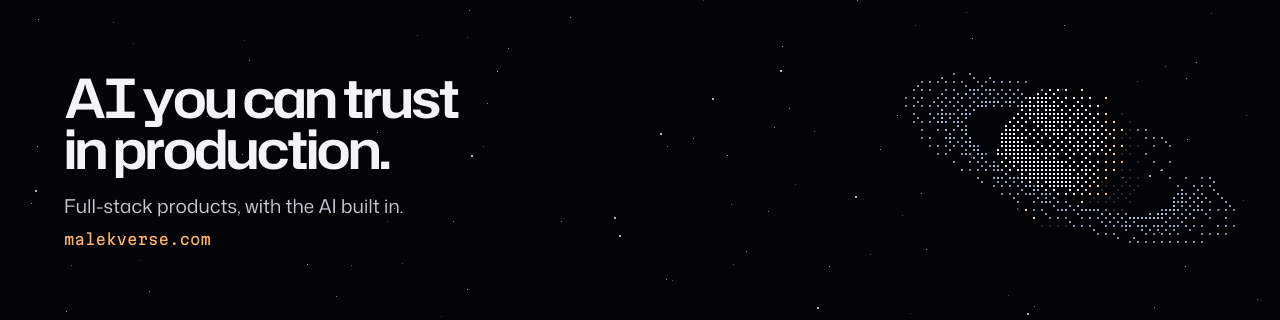
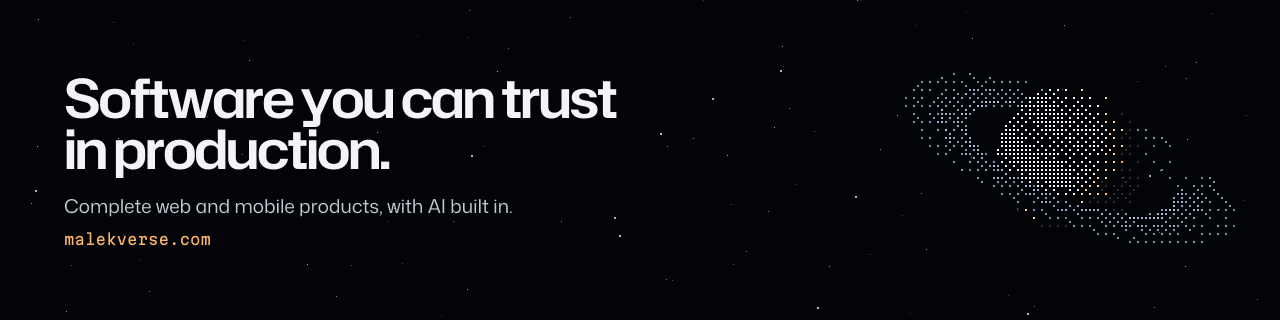
Profile: software engineer first, with AI built in
Lead with the products (TunisiaFlicks, Al-Murshid, QTrust, Bridge),
rename the column to Highlights, and reorder the stack so AI comes last.
New banner: Software you can trust in production.

Changed region(s): [[0.0312, 0.2188, 0.5, 0.4062], [0.0312, 0.625, 0.4062, 0.6875]]

diff --git a/README.md b/README.md
@@ -1,8 +1,8 @@
-<a href="https://www.malekverse.com"><img src="assets/banner.png" alt="AI you can trust in production. Full-stack products, with the AI built in. malekverse.com" width="100%"></a>
+<a href="https://www.malekverse.com"><img src="assets/banner.png" alt="Software you can trust in production. Complete web and mobile products, with AI built in. malekverse.com" width="100%"></a>
 
 ### Hi, I'm Malek
 
-Full-stack AI engineer. I build complete products, with interfaces people enjoy using and **AI you can trust in production** inside them.
+Software engineer. I build complete products end to end: web and mobile apps, the backends behind them, and AI inside them where it earns its place.
 
 `STATUS: SHIPPING` · Full Stack AI Engineer at **Korbyx** · [malekverse.com](https://malekverse.com)
 
@@ -10,18 +10,19 @@ Full-stack AI engineer. I build complete products, with interfaces people enjoy 
 
 #### Selected work
 
-| Project | What it is | How it earns trust |
+| Project | What it is | Highlights |
 |---|---|---|
-| [**QTrust**](https://q-trust-saas.vercel.app) | Multi-tenant SaaS for Quranic schools + tablet app for QR attendance | Admin agent with 43 tools: Zod-validated arguments, every write held for human approval |
-| [**Bridge**](https://bridgeforall.vercel.app) | Accessibility platform for neurodivergent & disabled users (EN/FR/AR) | Validated LLM output with multi-provider fallback · 19 automated row-level-security checks |
-| [**Edah Studio**](https://edah-studio.onrender.com/) | Written lecture → narrated Arabic/English video with a 3D presenter | 5-layer faithfulness pipeline so the model can't invent facts |
-| [**Win El Dhaw**](https://wineldhaw.vercel.app) | Live crowdsourced power-outage map for Tunisia | Reports from web, Telegram and news merged with DBSCAN clustering on PostGIS |
-| [**quran-dataset**](https://github.com/malekverse/quran-dataset) | Structured open dataset of the Qur'an (JSON/CSV) | Open data for Arabic and Islamic tech |
+| [**TunisiaFlicks**](https://github.com/malekverse/tunisiaflicks) | Film & series discovery on the web, Android, Android TV and Windows | 380+ commits, solo · EN/FR/AR/Derja with right-to-left · tests and Android builds in CI on every push |
+| [**Al-Murshid**](https://al-murshid-pro.netlify.app) | A calm daily companion for Muslims, on the web, iOS and Android | One TypeScript core for Next.js + Expo · widgets, alarms, Quran reader · iOS Simulator flows and Lighthouse budgets in CI |
+| [**QTrust**](https://q-trust-saas.vercel.app) | Multi-tenant SaaS for Quranic schools + a tablet app for QR attendance | 28 tenant-scoped models · billing and three portals · AI admin agent whose writes wait for approval |
+| [**Bridge**](https://bridgeforall.vercel.app) | Accessibility platform + Chrome extension (EN/FR/AR) | Hackathon to live product in 3 days · on-device audio ML (~150 ms) · 19 automated RLS checks |
+| [**Win El Dhaw**](https://wineldhaw.vercel.app) | Live power-outage map for Tunisia | Web reports, a Telegram bot and a news scraper → PostGIS DBSCAN zones, in real time |
+| [**Edah Studio**](https://edah-studio.onrender.com/) | Written lecture → narrated Arabic/English video | 3D presenter · frame-accurate MP4 export · a 5-layer gate against invented facts |
 
-Open source: merged fix in [God's Eye View](https://github.com/bilawalsidhu/gods-eye-view) (48k+ ★).
+Open source: merged fix in [God's Eye View](https://github.com/bilawalsidhu/gods-eye-view) (48k+ ★) · maintainer of [quran-dataset](https://github.com/malekverse/quran-dataset)
 
 #### Stack
-`TypeScript` `Next.js` `React` `Node.js` `Hono` `Python` `FastAPI` `PostgreSQL` `MongoDB` `Supabase` `AWS` `Bedrock` `Terraform` `Vercel AI SDK` `LangChain` `ONNX Runtime`
+`TypeScript` `React` `Next.js` `React Native` `Expo` `Electron` `Node.js` `Hono` `NestJS` `Python` `FastAPI` `PostgreSQL` `MongoDB` `Supabase` `AWS` `Terraform` `Docker` `GitHub Actions` `Turborepo` `Vercel AI SDK`
 
 #### Elsewhere
 [LinkedIn](https://www.linkedin.com/in/malek-maghraoui) · [malekverse.com](https://malekverse.com)
